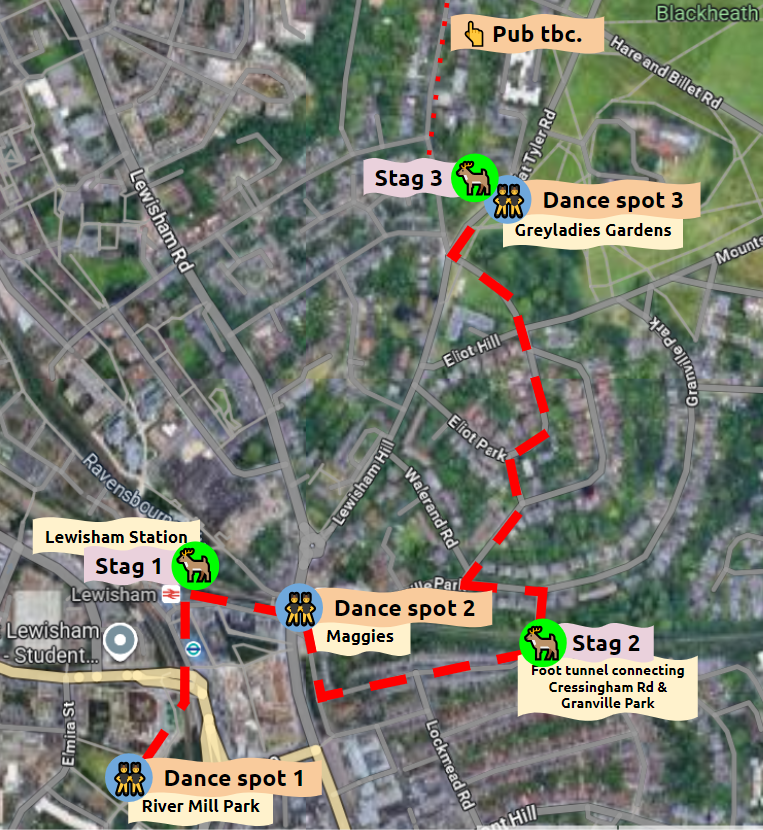
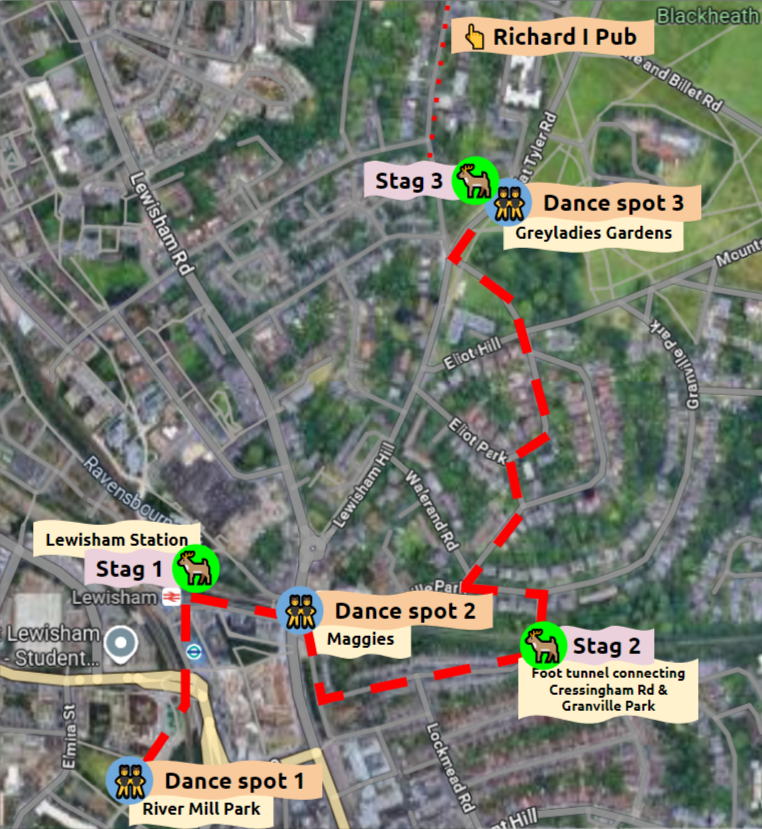
Update stag tour deets

Changed region(s): [[0.0, 0.0, 1.0, 1.0], [0.4528, 0.0, 0.5131, 0.0905]]

diff --git a/events.html b/events.html
@@ -47,20 +47,20 @@
         <p class="ev-title">Lewisham Natureman Stag Tour</p>
         <p class="ev-date">Sunday, September 21, 2025</p>
         <p class="ev-time">2:00 pm to 5:00 pm</p>
-        <p>We'll celebrate the contemporary folklore of the <a class="text-link" href="https://qwag.org.uk/stags-of-the-river-quaggy-lewisham-natureman/">Lewisham Natureman</a>, whose white
-          stag murals along the Quaggy river are the main inspiration behind our costume. (All times below are in morris time so may shift.)</p>
+        <p>Join us in celebrating the contemporary folklore of the <a class="text-link" href="https://qwag.org.uk/stags-of-the-river-quaggy-lewisham-natureman/">Lewisham Natureman</a>, whose white
+          stag murals along the Quaggy river are the main inspiration behind our costume.</p>
       </div>
     </div>
     <div class="event">
       <img src="img/events/stag-map-25.PNG" alt="Map of the tour route" />
       <div>
-        <p class="ev-date">Rough tour schedule:</p>
+        <p class="ev-date">🦌 Rough tour schedule (times may shift 🍺):</p>
         <p>2:00 pm - Meet & first dances at River Mill Park, Lewisham</p>
         <p>2:30 pm - Stag 1 at Lewisham Station</p>
         <p>3:00 pm - Dance spot 2 outside Maggies Cafe & Restaurant</p>
-        <p>3:30 pm - Stag 2 at the foot tunnel connecting Cressingham Rd & Granville Park, <a class="text-link" href="https://what3words.com/gifts.parks.link">///gifts.parks.link</a></p>
-        <p>4:00 pm - More dancing at Stag 3 at the South side of Greyladies Gardens, Blackheath, <a class="text-link" href="https://what3words.com/cult.noting.lanes">///cult.noting.lanes</a></p>
-        <p>4:30 pm - Final stop at a pub, tbc.</p>
+        <p>3:30 pm - Stag 2 at the foot tunnel connecting Cressingham Rd & Granville Park - <a class="text-link" href="https://what3words.com/gifts.parks.link">///gifts.parks.link</a></p>
+        <p>4:00 pm - More dancing at Stag 3 at the South side of Greyladies Gardens, Blackheath - <a class="text-link" href="https://what3words.com/cult.noting.lanes">///cult.noting.lanes</a></p>
+        <p>4:30 pm - Final stop at <a class="text-link" href="https://www.richardthefirst.co.uk/">Richard I</a> pub on Royal Hill, Greenwich</p>
       </div>
     </div>
     <div class="event">
